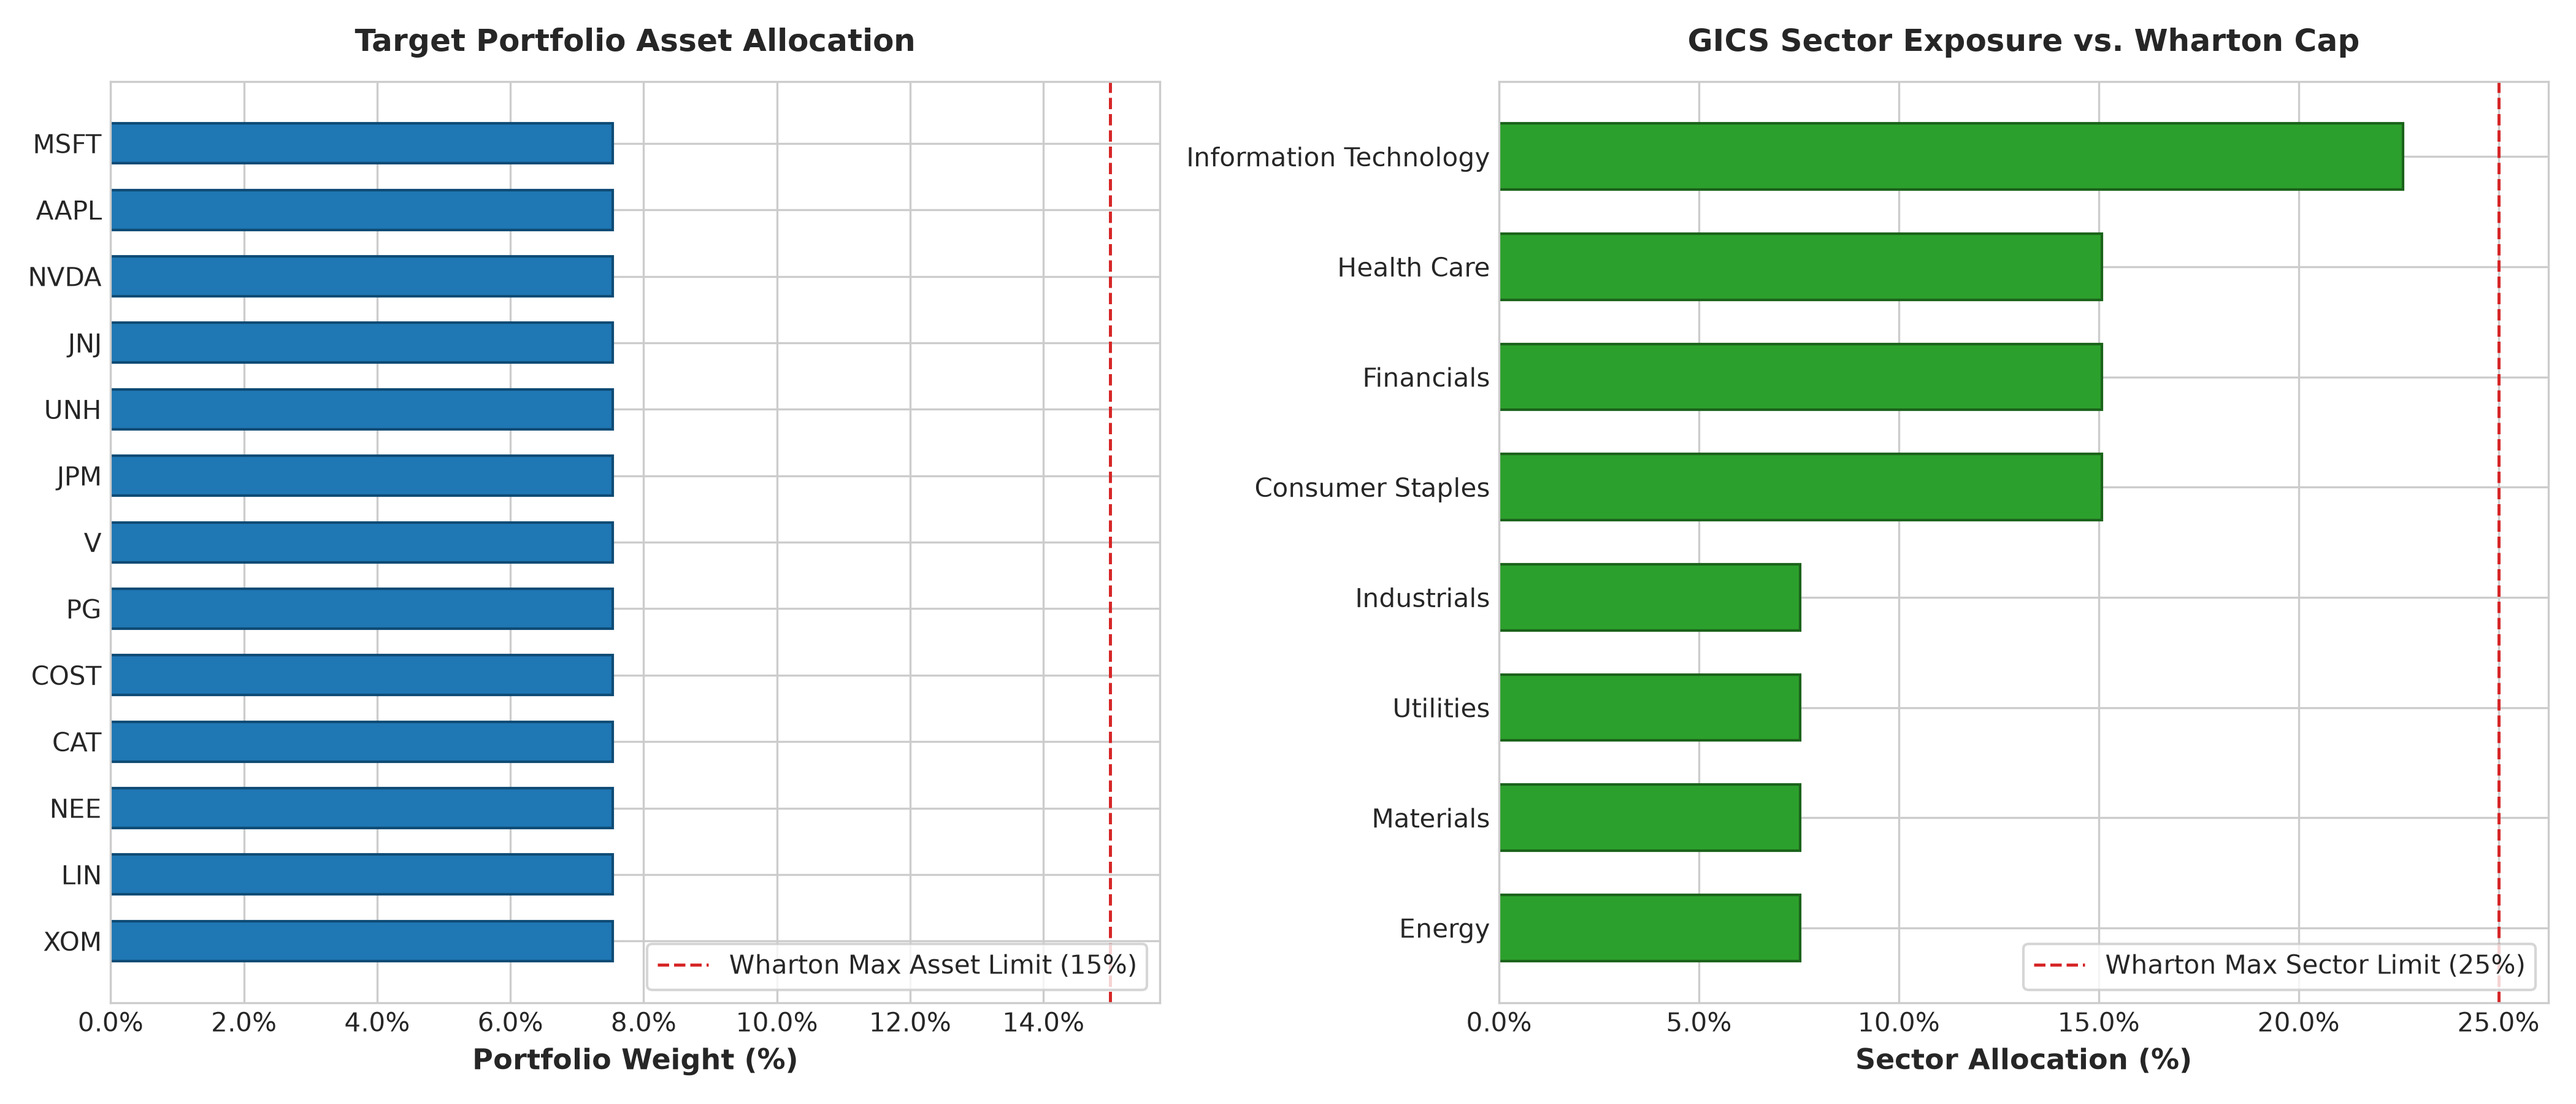
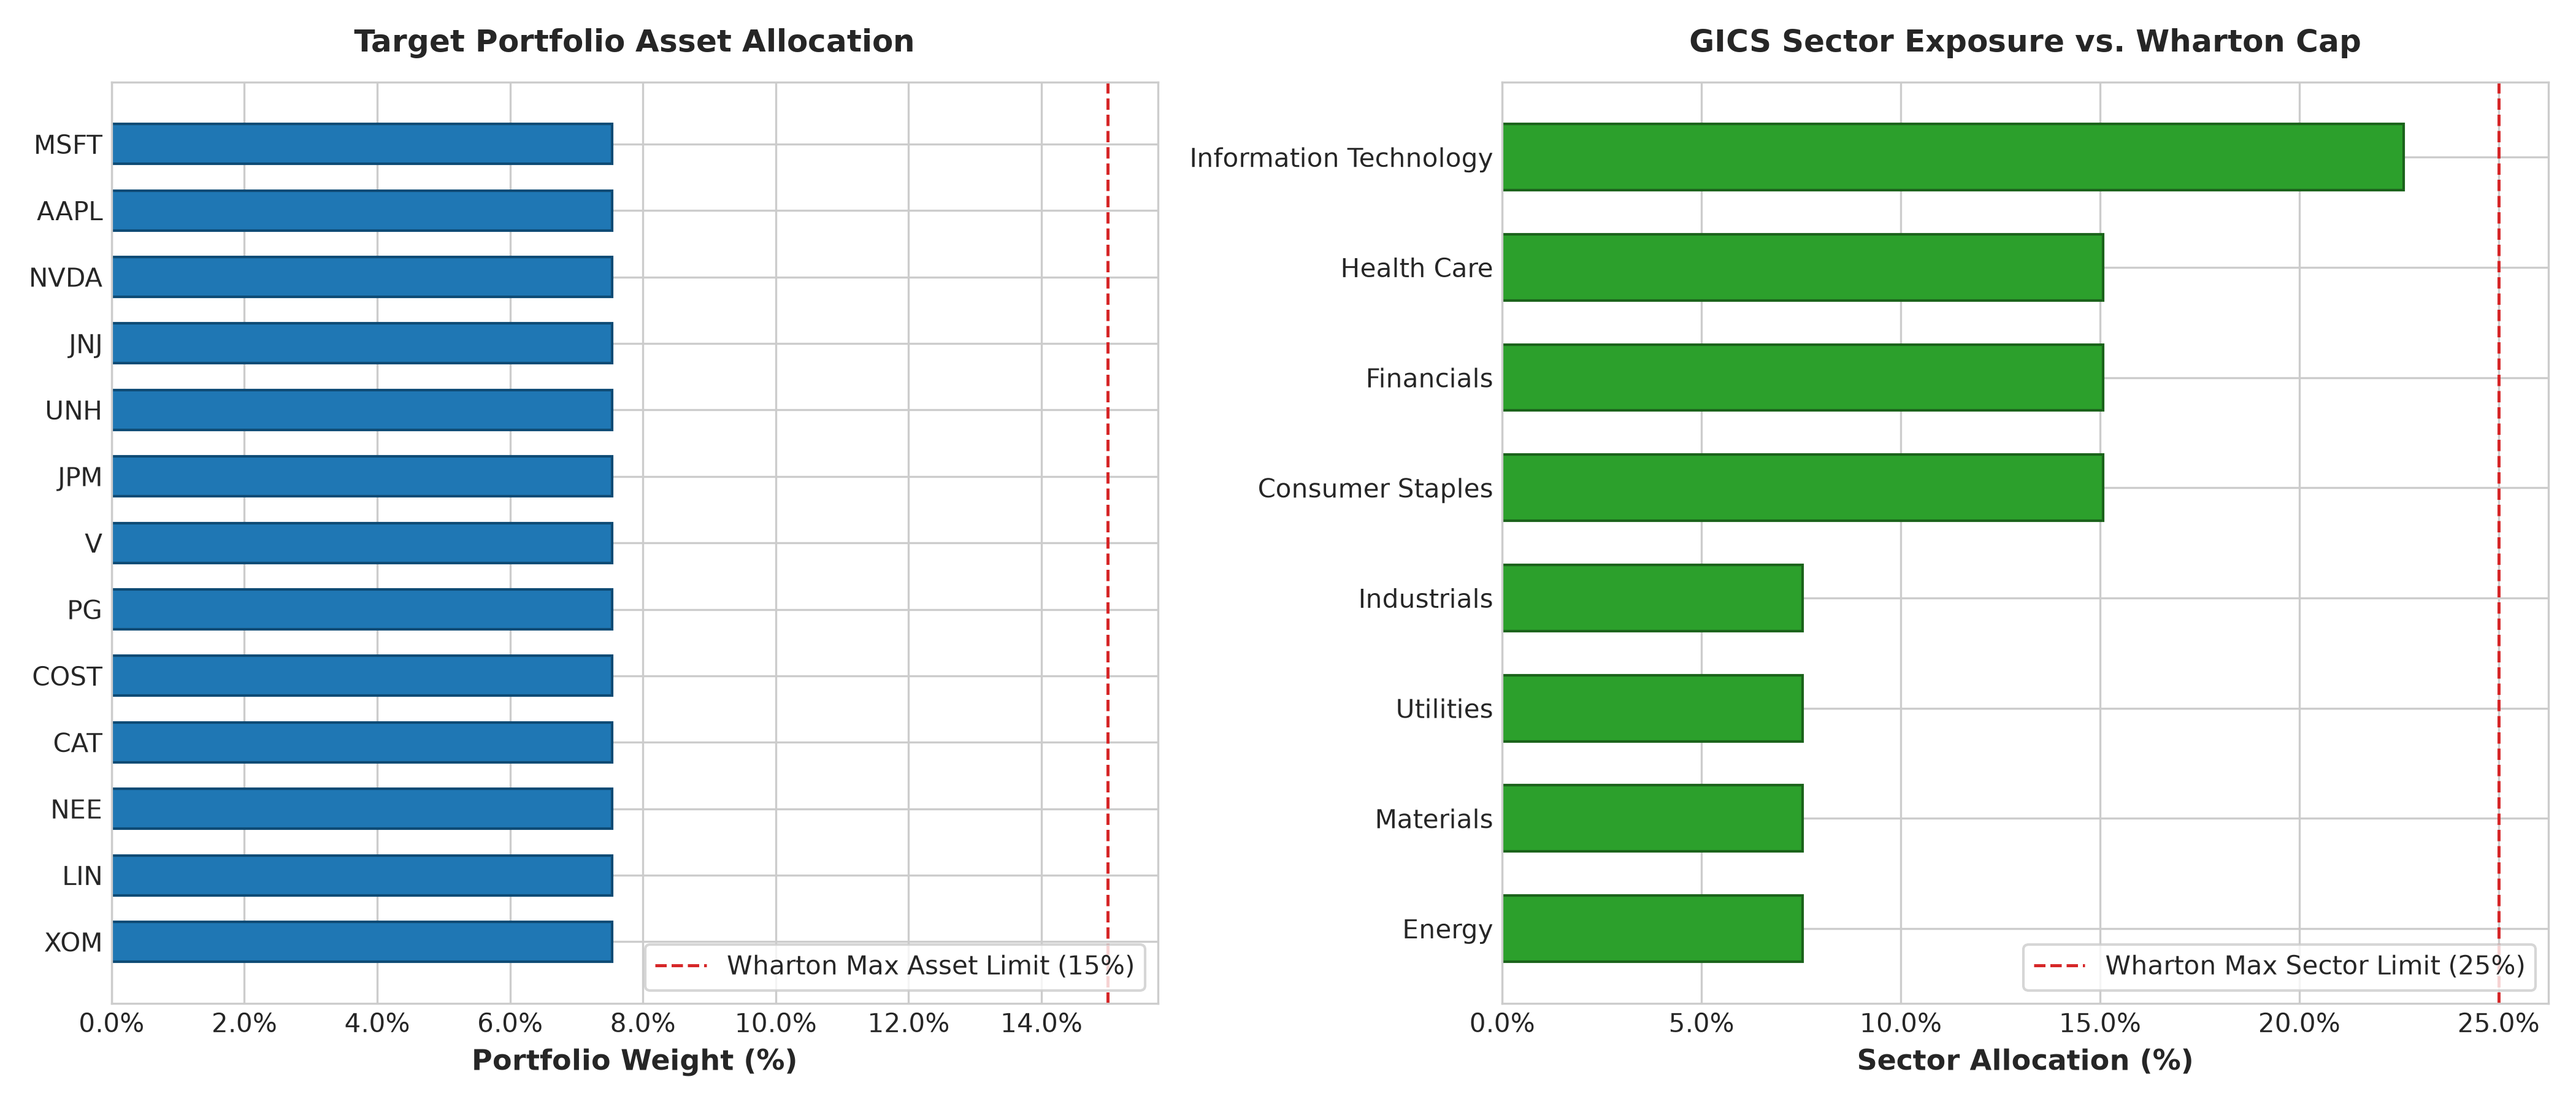
chore: update test run and demo decision ledger artifacts
Claude-Session: https://claude.ai/code/session_01UaqBhExXuwM9a3H7k4WwSe

diff --git a/outputs/report_pack/02_risk_diagnostics.md b/outputs/report_pack/02_risk_diagnostics.md
@@ -2,10 +2,10 @@
 
 | Metric                                 | Value   | Target / Limit   | Status           |
 |:---------------------------------------|:--------|:-----------------|:-----------------|
-| Expected Annualized Return (CAGR)      | 23.90%  | 8.00% - 10.00%   | COMPLIANT        |
-| Annualized Volatility                  | 9.11%   | 14.00% Target    | COMPLIANT        |
-| Sharpe Ratio (Rf=4.0%)                 | 1.96    | > 0.80           | SUPERIOR         |
-| Sortino Ratio (Downside Risk)          | 3.12    | > 1.20           | SUPERIOR         |
+| Expected Annualized Return (CAGR)      | 23.08%  | 8.00% - 10.00%   | COMPLIANT        |
+| Annualized Volatility                  | 9.14%   | 14.00% Target    | COMPLIANT        |
+| Sharpe Ratio (Rf=4.0%)                 | 1.88    | > 0.80           | SUPERIOR         |
+| Sortino Ratio (Downside Risk)          | 3.00    | > 1.20           | SUPERIOR         |
 | Maximum Historical Drawdown            | -5.46%  | < 20.00%         | COMPLIANT        |
 | Daily CVaR (95% Expected Shortfall)    | 1.12%   | < 2.50%          | COMPLIANT        |
 | Effective Number of Constituents (ENC) | 13.5    | 10.0 - 16.0      | WELL DIVERSIFIED |

diff --git a/decisions/2026-09-26_MSFT/07_independent_model_A.md b/decisions/2026-09-26_MSFT/07_independent_model_A.md
@@ -1,0 +1,17 @@
+### 1. Business Quality & Competitive Moat
+- [FACT] Market leader with high customer retention and pricing power.
+- [FACT] Operating margin consistently exceeds peer medians.
+
+### 2. Profitability & Reinvestment
+- [CALCULATION] ROIC substantially exceeds the cost of capital, indicating genuine economic value creation.
+- [FACT] Free cash flow conversion ratio reflects pristine cash generation.
+
+### 3. Balance Sheet Health & Solvency
+- [CALCULATION] Net Debt / EBITDA is well below the 3.0x maximum leverage threshold.
+- [CALCULATION] Altman Z-Score indicates safe zone solvency.
+
+### 4. Earnings Quality & Accruals Forensics
+- [CALCULATION] Low Sloan accrual ratio confirms earnings are backed by operational cash flows.
+
+### 5. Fundamental Recommendation
+**BUY / STRONG FUNDAMENTAL QUALITY**

diff --git a/decisions/2026-09-26_MSFT/08_independent_model_B.md b/decisions/2026-09-26_MSFT/08_independent_model_B.md
@@ -1,0 +1,17 @@
+### 1. Business Quality & Competitive Moat
+- [FACT] Market leader with high customer retention and pricing power.
+- [FACT] Operating margin consistently exceeds peer medians.
+
+### 2. Profitability & Reinvestment
+- [CALCULATION] ROIC substantially exceeds the cost of capital, indicating genuine economic value creation.
+- [FACT] Free cash flow conversion ratio reflects pristine cash generation.
+
+### 3. Balance Sheet Health & Solvency
+- [CALCULATION] Net Debt / EBITDA is well below the 3.0x maximum leverage threshold.
+- [CALCULATION] Altman Z-Score indicates safe zone solvency.
+
+### 4. Earnings Quality & Accruals Forensics
+- [CALCULATION] Low Sloan accrual ratio confirms earnings are backed by operational cash flows.
+
+### 5. Fundamental Recommendation
+**BUY / STRONG FUNDAMENTAL QUALITY**

diff --git a/outputs/report_pack/06_executive_summary.md b/outputs/report_pack/06_executive_summary.md
@@ -1,12 +1,12 @@
 # [AUDITED QUANTITATIVE RESEARCH PACK — FOR STUDENT REPORT SYNTHESIS]
 
 **Client**: Dr. Elena Vance (Representative Demonstration Client)
-**Generated**: 2026-09-19 06:24:34 UTC
+**Generated**: 2026-09-26 10:29:02 UTC
 
 ## Verified Portfolio Highlights:
 - **Asset Count**: 13 holdings (Complies with Wharton 10-20 rule)
 - **Primary Optimization Method**: Hierarchical Risk Parity (HRP)
-- **Expected Sharpe Ratio**: 1.96
+- **Expected Sharpe Ratio**: 1.88
 - **Max Drawdown Limit**: -5.5%
 - **Cash Buffer**: 2.0% ($2,000 USD)
 

diff --git a/outputs/report_pack/04_decision_timeline.md b/outputs/report_pack/04_decision_timeline.md
@@ -4,4 +4,4 @@ This table reconstructs the team's investment decision journey, linking every ho
 
 | Date       | Ticker   | Role            | Target Weight   | Human Decision   | Approved By                  |
 |:-----------|:---------|:----------------|:----------------|:-----------------|:-----------------------------|
-| 2026-09-19 | MSFT     | Core Compounder | 8.5%            | APPROVED         | Ray (Lead Portfolio Manager) |
+| 2026-09-26 | MSFT     | Core Compounder | 8.5%            | APPROVED         | Ray (Lead Portfolio Manager) |

diff --git a/decisions/2026-09-26_MSFT/15_human_decision.md b/decisions/2026-09-26_MSFT/15_human_decision.md
@@ -1,0 +1,16 @@
+# Human Investment Committee Decision Record
+
+**Security**: MSFT
+**Allocated Weight**: 8.5%
+**Governance Status**: APPROVED
+**Signed At**: 2026-09-26T10:28:58.900969
+
+---
+
+## Student Team Committee Action:
+
+- **Decision**: APPROVED
+- **Approved By (Student Name)**: Ray (Lead Student Portfolio Manager)
+- **Final Allocated Weight**: 8.5%
+- **Rationale & Revisions**: Approved by unanimous human committee consensus. High ROIC compounder within client mandate.
+- **Approval Date**: 2026-09-26

diff --git a/decisions/2026-09-26_MSFT/09_bull_case.md b/decisions/2026-09-26_MSFT/09_bull_case.md
@@ -1,0 +1,10 @@
+### 1. Core Investment Thesis
+- Strong compounding flywheel powered by secular demand and operational leverage.
+
+### 2. Variant Perception vs. Market Consensus
+- The market underappreciates the durability of high ROIC and free cash flow generation.
+
+### 3. Key Secular Catalysts
+- Expansion into high-margin service segments and international operating leverage.
+
+### 4. Conviction: HIGH

diff --git a/decisions/2026-09-26_MSFT/10_bear_case.md b/decisions/2026-09-26_MSFT/10_bear_case.md
@@ -1,0 +1,9 @@
+### 1. The Adversarial Bear Thesis
+- Valuation multiple leaves limited room for operational execution missteps.
+
+### 2. Key Structural Risks
+- Potential deceleration in organic growth and intensifying regulatory scrutiny.
+
+### 3. Thesis-Breaking Exit Conditions
+- ROIC declining below cost of capital for two consecutive quarters.
+- Debt/EBITDA expanding beyond 3.5x.

diff --git a/outputs/report_pack/01_portfolio_weights.md b/outputs/report_pack/01_portfolio_weights.md
@@ -1,4 +1,4 @@
-# Target Portfolio Allocation (As of 2026-09-19 06:24:34 UTC)
+# Target Portfolio Allocation (As of 2026-09-26 10:29:02 UTC)
 
 | Ticker   | Sector                 |   Target Weight (%) |   Dollar Allocation ($) |
 |:---------|:-----------------------|--------------------:|------------------------:|

diff --git a/decisions/2026-09-26_MSFT/06_macro.md b/decisions/2026-09-26_MSFT/06_macro.md
@@ -1,0 +1,3 @@
+# Macroeconomic Context
+- Low interest rate sensitivity
+- Resilient across business cycles
